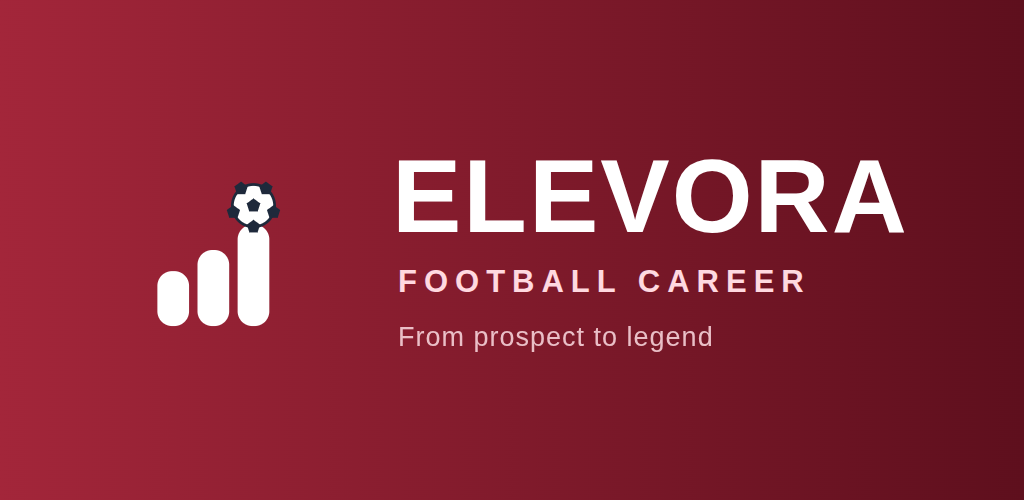
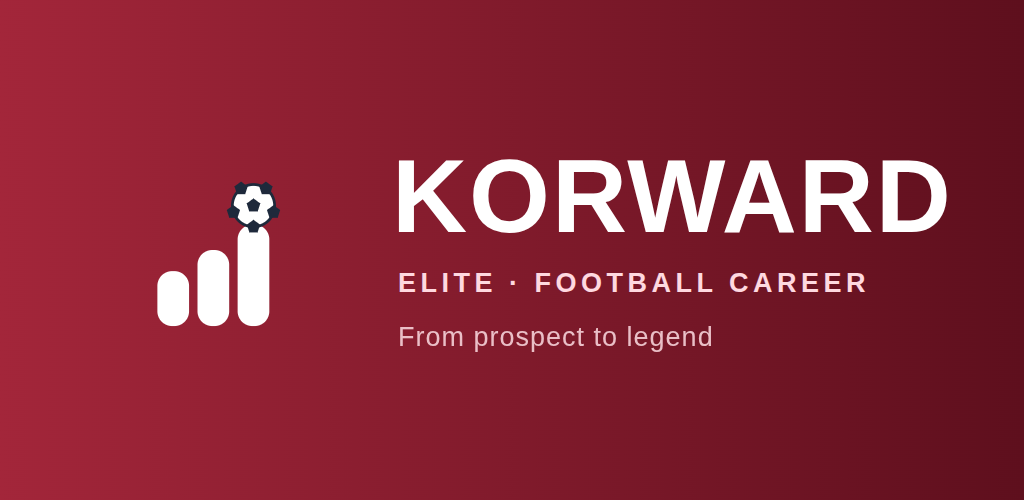
Rebrand packaging → Korward Elite (com.korward.elite) + privacy policy pubblica
Direttiva PO per il rilascio Play Store: nome app «Korward Elite», package id
com.korward.elite. Il file di gioco era già interamente Korward — questo commit
allinea tutta la filiera di packaging e store:

- capacitor.config.json: appId com.korward.elite · appName Korward Elite
- package.json: name/description
- sw.js: cache 'korward-v4' (l'activate ripulisce le cache vecchie → migrazione da sola)
- tools/gen-assets.mjs + gen-store-graphics.mjs: wordmark KORWARD / ELITE · FOOTBALL CAREER
  (sottotitolo splash ristretto: a tracking 2.6 toccava i bordi = tagliato dal CENTER_CROP)
- resources/ + store-assets/: splash e feature graphic RIGENERATI e verificati a schermo
- PRIVACY_POLICY.md e STORE_LISTING.md rebrandizzati (titolo «Korward Elite: Carriera Calcio»
  30/30, URL privacy compilato)
- privacy.html NUOVO: pagina pubblica della policy servita da GitHub Pages →
  https://antoniovairo-rgb.github.io/Carrier-manager-/privacy.html
- .github/workflows/android-build.yml: artifact/release korward-elite-*
- PACKAGING.md aggiornato

Nessuna modifica a CARRIER-MANAGER-AV.html.

Claude-Session: https://claude.ai/code/session_0146SKADMUvVQoNytw2GpJ7A

Changed region(s): [[0.4062, 0.3, 0.9375, 0.48], [0.375, 0.54, 0.8438, 0.6]]

diff --git a/privacy.html b/privacy.html
@@ -1,0 +1,76 @@
+<!DOCTYPE html>
+<html lang="it">
+<head>
+<meta charset="utf-8">
+<meta name="viewport" content="width=device-width,initial-scale=1">
+<title>Privacy Policy — Korward Elite</title>
+<meta name="description" content="Informativa sulla privacy di Korward Elite: Football Career Simulator. L'app non raccoglie alcun dato personale.">
+<style>
+  :root{--granata:#a3263a;--granata-dk:#5e0f1d;--ink:#1e2530;--muted:#5b6472;--bg:#f7f5f2;--card:#ffffff;}
+  *{margin:0;padding:0;box-sizing:border-box}
+  body{font-family:-apple-system,'Segoe UI',Roboto,'Helvetica Neue',Arial,sans-serif;background:var(--bg);color:var(--ink);line-height:1.65;font-size:16px}
+  header{background:linear-gradient(135deg,var(--granata),var(--granata-dk));color:#fff;padding:34px 20px 28px;text-align:center}
+  header .brand{font-weight:900;font-size:26px;letter-spacing:1px}
+  header .brand em{font-style:italic;font-weight:700;color:#f5c04b}
+  header .sub{font-size:13px;opacity:.85;margin-top:4px;letter-spacing:2px;text-transform:uppercase}
+  main{max-width:760px;margin:0 auto;padding:28px 20px 60px}
+  .card{background:var(--card);border-radius:14px;padding:26px 26px 30px;box-shadow:0 2px 14px rgba(94,15,29,.08)}
+  h1{font-size:22px;margin-bottom:4px}
+  .date{color:var(--muted);font-size:13px;margin-bottom:20px}
+  .tldr{background:#f2e7ea;border-left:4px solid var(--granata);border-radius:8px;padding:12px 16px;margin-bottom:24px;font-weight:600}
+  h2{font-size:17px;margin:26px 0 8px;color:var(--granata-dk)}
+  p,li{color:#2b3442}
+  ul{padding-left:22px;margin:8px 0}
+  li{margin-bottom:5px}
+  a{color:var(--granata)}
+  footer{text-align:center;color:var(--muted);font-size:12px;padding:0 20px 40px}
+</style>
+</head>
+<body>
+<header>
+  <div class="brand">K⚽RWARD <em>Elite</em></div>
+  <div class="sub">Football Career Simulator</div>
+</header>
+<main>
+  <div class="card">
+    <h1>Informativa sulla privacy</h1>
+    <div class="date">Ultimo aggiornamento: 6 agosto 2026</div>
+
+    <div class="tldr">Versione breve: l'app non raccoglie, non invia e non condivide alcun dato personale. Tutto resta sul tuo dispositivo.</div>
+
+    <p>Korward Elite ("l'app", "il gioco") è un simulatore di carriera calcistica gratuito. Questa informativa spiega quali dati l'app tratta.</p>
+
+    <h2>1. Dati raccolti</h2>
+    <p><strong>Nessuno.</strong> Korward Elite non raccoglie dati personali, non richiede registrazione né account, non usa identificatori pubblicitari e non include SDK di analisi o tracciamento di terze parti.</p>
+
+    <h2>2. Salvataggi di gioco</h2>
+    <p>I progressi della tua carriera (giocatore, statistiche, calendario, classifiche, diario) sono salvati <strong>esclusivamente in locale</strong> sul tuo dispositivo (archiviazione del dispositivo / <code>localStorage</code> della WebView). Questi dati:</p>
+    <ul>
+      <li>non lasciano mai il dispositivo;</li>
+      <li>non sono accessibili a noi né a terzi;</li>
+      <li>possono essere esportati e reimportati da te tramite la funzione "Esporta salvataggio" (un file JSON che gestisci tu);</li>
+      <li>vengono rimossi disinstallando l'app o cancellando i dati dell'app dalle impostazioni di sistema.</li>
+    </ul>
+
+    <h2>3. Permessi</h2>
+    <p>L'app non richiede permessi sensibili (niente posizione, contatti, fotocamera, microfono, archiviazione esterna). Non usa l'Advertising ID.</p>
+
+    <h2>4. Donazioni (facoltative)</h2>
+    <p>Se l'app mostra un pulsante "Sostieni lo sviluppo", questo si limita ad <strong>aprire un link esterno</strong> (es. Ko-fi / PayPal / Buy Me a Coffee) nel browser di sistema. L'eventuale donazione avviene interamente sulla piattaforma del provider esterno, secondo la sua privacy policy: <strong>l'app non gestisce e non riceve alcun dato di pagamento</strong> e non concede alcuno sblocco o vantaggio in cambio.</p>
+
+    <h2>5. Funzione AI (disattivata nella versione store)</h2>
+    <p>Il codice del gioco include una funzione opzionale di analisi tattica basata su AI. <strong>Nella versione pubblicata sullo store questa funzione è disattivata</strong>: non viene effettuata alcuna chiamata di rete verso servizi esterni. (Nella versione web del gioco la funzione è attivabile solo dall'utente inserendo una propria chiave API; in quel caso il testo della richiesta viene inviato al fornitore AI scelto dall'utente. Questo non riguarda l'app dello store.)</p>
+
+    <h2>6. Minori</h2>
+    <p>L'app è adatta a tutte le età, non raccoglie dati e non contiene pubblicità. Non vengono trattati dati di minori perché non viene trattato alcun dato personale.</p>
+
+    <h2>7. Modifiche</h2>
+    <p>Eventuali aggiornamenti a questa informativa saranno pubblicati a questo stesso indirizzo, con la data di aggiornamento in alto.</p>
+
+    <h2>8. Contatti</h2>
+    <p>Per domande sulla privacy: <a href="mailto:antoniovairo@gmail.com">antoniovairo@gmail.com</a></p>
+  </div>
+</main>
+<footer>Korward Elite — tutti i nomi di club, leghe, competizioni e giocatori sono di fantasia.</footer>
+</body>
+</html>

diff --git a/sw.js b/sw.js
@@ -1,7 +1,7 @@
-// Elevora PWA — service worker (network-first, no-cache per il documento principale)
+// Korward Elite PWA — service worker (network-first, no-cache per il documento principale)
 // 5.69.0: il DOCUMENTO principale viene sempre scaricato con cache:'reload' → bypassa la cache HTTP del
 //   browser/CDN, così dopo un deploy si vede SUBITO l'ultima versione online (la cache resta solo per l'OFFLINE).
-const CACHE = 'elevora-v3';
+const CACHE = 'korward-v4'; // [rebrand] era 'elevora-v3' — l'activate elimina le cache non correnti, quindi il rename migra da solo
 
 self.addEventListener('install', () => self.skipWaiting());
 

diff --git a/PACKAGING.md b/PACKAGING.md
@@ -1,4 +1,4 @@
-# PACKAGING — Elevora → Google Play (AAB via Capacitor)
+# PACKAGING — Korward Elite → Google Play (AAB via Capacitor)
 
 Pipeline per trasformare il gioco (singolo file `CARRIER-MANAGER-AV.html`) in un **Android App Bundle (.aab)** pubblicabile. Il **sorgente di lavoro non cambia mai**: il packaging produce solo artefatti derivati.
 
@@ -11,7 +11,7 @@ Pipeline per trasformare il gioco (singolo file `CARRIER-MANAGER-AV.html`) in un
 | `tools/build-dist.mjs` | Build di produzione → `dist/` **offline**: precompila il JSX (niente Babel-in-browser) e inlina React/Three/Phaser dai `node_modules` del gate. |
 | `tools/validate-dist.mjs` | Verifica che `dist/` monti e giri **senza rete** (blocca ogni CDN). |
 | `package.json` | Dipendenze Capacitor + script npm. |
-| `capacitor.config.json` | `appId=com.elevora.football`, `appName=Elevora`, `webDir=dist`, splash. |
+| `capacitor.config.json` | `appId=com.korward.elite`, `appName=Korward Elite`, `webDir=dist`, splash. |
 
 `dist/` e `android/` **non sono versionati** (build-output riproducibile).
 
@@ -78,7 +78,7 @@ non dalla fine dello sviluppo → gli inviti vanno mandati **subito**, in parall
 
 Il manifest generato include solo **`INTERNET`** (default Capacitor). Il gioco gira **offline** e la build store disabilita la feature AI: se non servono né AI né link esterni in-app puoi **rimuovere** `INTERNET` da `android/app/src/main/AndroidManifest.xml` per un profilo permessi a zero (meglio per la review privacy). Il link donazione apre il **browser di sistema** (intent), che non richiede il permesso in-app.
 
-## Icona e splash (granata Elevora)
+## Icona e splash (granata Korward Elite)
 
 Le immagini **sorgente** sono versionate in **`resources/`** (generate dal marchio reale del gioco — barre + pallone, gradiente granata `#a3263a→#5e0f1d`):
 
@@ -106,7 +106,7 @@ npm run assets:android       # = npx capacitor-assets generate --assetPath resou
 
 ## Grafica del listing (Play Console)
 
-In **`store-assets/`** (granata Elevora):
+In **`store-assets/`** (granata Korward Elite):
 
 | File | Uso |
 |---|---|
@@ -131,7 +131,7 @@ Per ottenere un AAB **firmato** col tuo upload key, aggiungi i secret (Settings 
 
 Senza secret il workflow produce comunque l'AAB **unsigned** (utile come smoke-test della toolchain; firmabile dopo).
 
-**Release automatica sui tag:** se avvii il workflow con un **tag** `v*` (`git tag v1.0.0 && git push origin v1.0.0`), oltre all'artifact viene creata una **GitHub Release** "Elevora v1.0.0" con l'AAB allegato (`elevora-v1.0.0.aab`) — firmato se i secret sono presenti, altrimenti segnalato come unsigned nel corpo della release.
+**Release automatica sui tag:** se avvii il workflow con un **tag** `v*` (`git tag v1.0.0 && git push origin v1.0.0`), oltre all'artifact viene creata una **GitHub Release** "Korward Elite v1.0.0" con l'AAB allegato (`korward-elite-v1.0.0.aab`) — firmato se i secret sono presenti, altrimenti segnalato come unsigned nel corpo della release.
 
 ## Alternativa: TWA/Bubblewrap
 

diff --git a/STORE_LISTING.md b/STORE_LISTING.md
@@ -1,4 +1,4 @@
-# Elevora — testi per la scheda Google Play (bozza, roadmap 1.9)
+# Korward Elite — testi per la scheda Google Play (bozza, roadmap 1.9)
 
 > Bozza pronta da incollare in Play Console. I limiti di caratteri sono quelli ufficiali Play.
 > Conteggi indicati come (N/limite). Lingua principale: italiano.
@@ -6,13 +6,13 @@
 ## Titolo (≤ 30 caratteri)
 
 ```
-Elevora: Carriera Calcio
+Korward Elite: Carriera Calcio
 ```
-(24/30)
+(30/30)
 
 Alternative:
-- `Elevora — Carriera Calcistica` (29/30)
-- `Elevora: Football Career` (24/30, in inglese)
+- `Korward Elite — Carriera` (24/30)
+- `Korward Elite: Football Career` (30/30, in inglese)
 
 ## Descrizione breve (≤ 80 caratteri)
 
@@ -24,7 +24,7 @@ Vivi la carriera di un calciatore: dalle giovanili ai grandi stadi. Decidi tu.
 ## Descrizione completa (≤ 4000 caratteri)
 
 ```
-Elevora è un simulatore di carriera calcistica in cui controlli UN solo giocatore: il tuo. Dalle
+Korward Elite è un simulatore di carriera calcistica in cui controlli UN solo giocatore: il tuo. Dalle
 giovanili fino ai palcoscenici più importanti, ogni scelta — in campo e fuori — costruisce la tua
 storia.
 
@@ -81,7 +81,7 @@ una schermata "Info/Crediti" in-app:
 | Campo | Valore |
 |---|---|
 | Email sviluppatore | antoniovairo@gmail.com |
-| Privacy policy URL | (ospitare `PRIVACY_POLICY.md` su GitHub Pages e incollare qui l'URL) |
+| Privacy policy URL | https://antoniovairo-rgb.github.io/Carrier-manager-/privacy.html |
 | Contiene annunci | No |
 | Acquisti in-app | No (donazione solo via link esterno, nessuna ricompensa) |
 | Data Safety | Nessun dato raccolto / condiviso |

diff --git a/PRIVACY_POLICY.md b/PRIVACY_POLICY.md
@@ -1,14 +1,14 @@
-# Informativa sulla privacy — Elevora: Football Career Simulator
+# Informativa sulla privacy — Korward Elite: Football Career Simulator
 
-_Ultimo aggiornamento: 30 giugno 2026_
+_Ultimo aggiornamento: 6 agosto 2026_
 
-Elevora ("l'app", "il gioco") è un simulatore di carriera calcistica gratuito. Questa informativa
+Korward Elite ("l'app", "il gioco") è un simulatore di carriera calcistica gratuito. Questa informativa
 spiega quali dati l'app tratta. **Versione breve: l'app non raccoglie, non invia e non condivide
 alcun dato personale.** Tutto resta sul tuo dispositivo.
 
 ## 1. Dati raccolti
 
-**Nessuno.** Elevora non raccoglie dati personali, non richiede registrazione né account, non usa
+**Nessuno.** Korward Elite non raccoglie dati personali, non richiede registrazione né account, non usa
 identificatori pubblicitari e non include SDK di analisi o tracciamento di terze parti.
 
 ## 2. Salvataggi di gioco
